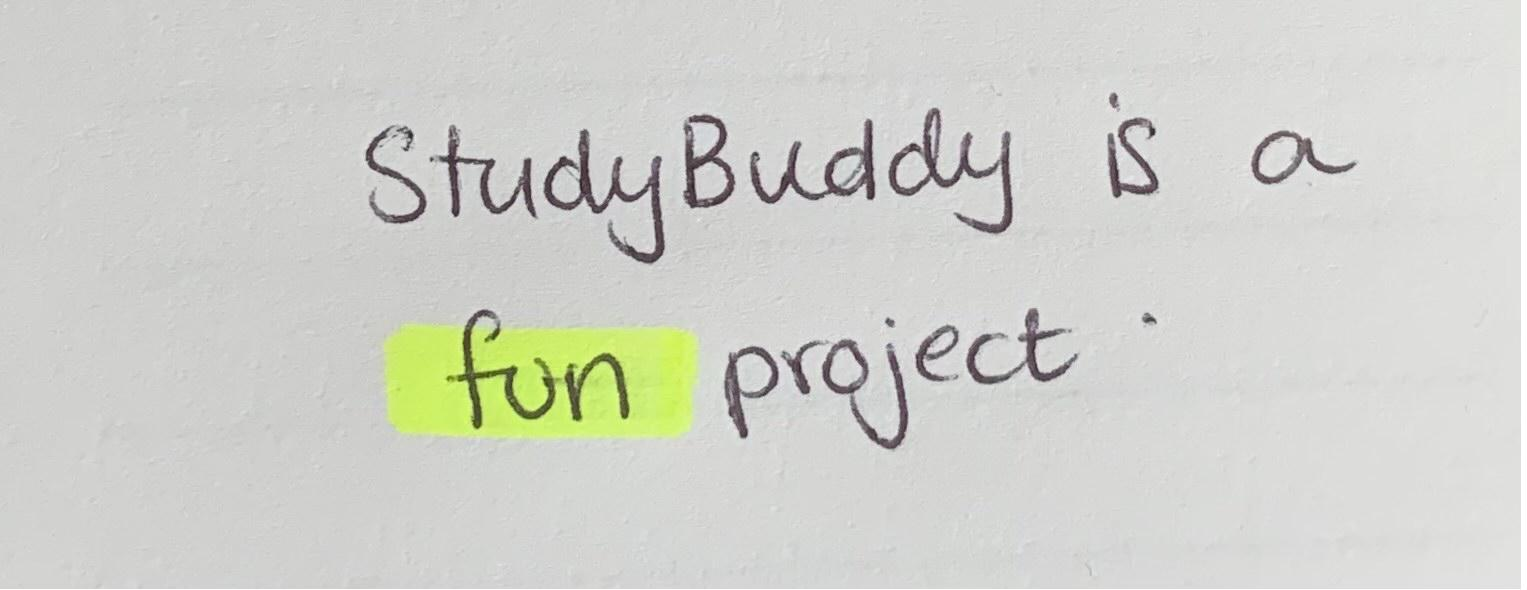
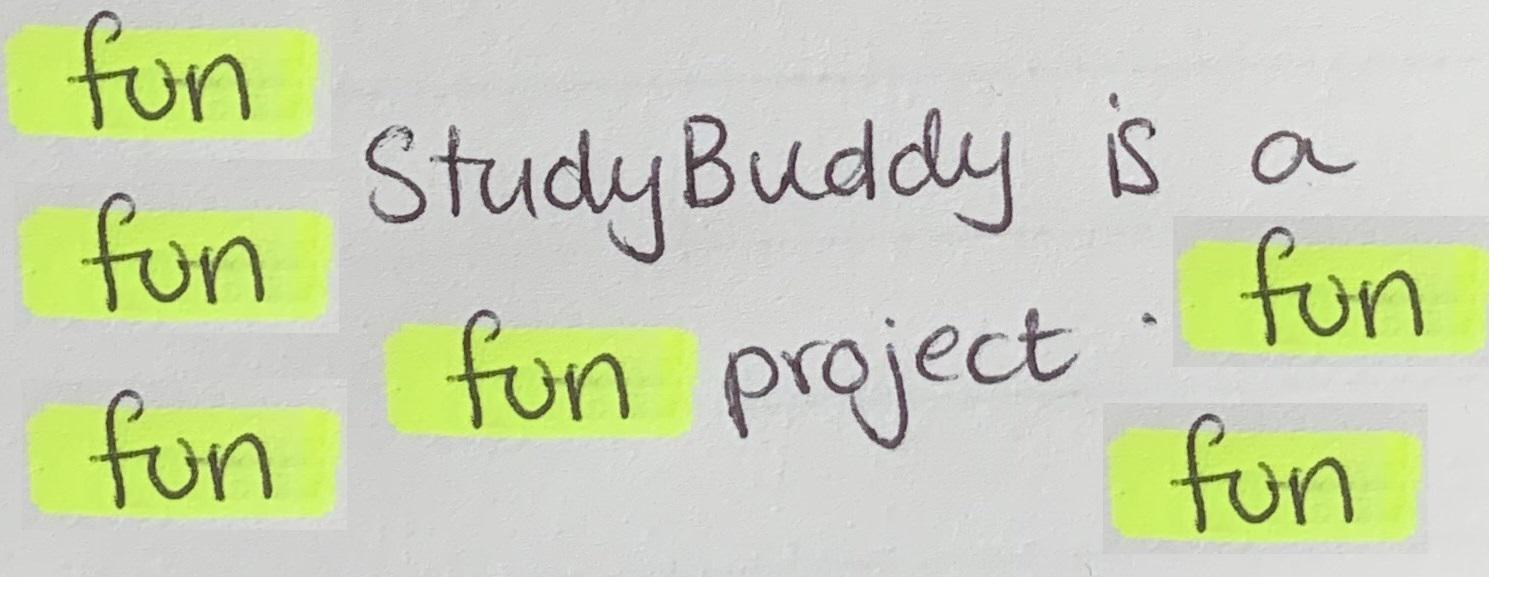
Multiple Highlights Update
Can now handle multiple highlights on the same image

diff --git a/api/Highlighted_Word_Finder.py b/api/Highlighted_Word_Finder.py
@@ -26,6 +26,39 @@ def detect_darker_color(possibleDarkerColor, lightColor, tolerancePercentage):
     else:
         return False
         
+def recursiveFindHighlightBlock(image, color, tolerance, x, y, xStep, yStep, topLeft, bottomRight, visitedMatrix):
+    if x < 0 or y < 0 or x >= image.width or y >= image.height or visitedMatrix[x][y]:
+        return
+    if not compareColors(image.getpixel((x,y)), color, tolerance):
+        visitedMatrix[x][y] = True
+        return
+
+    visitedMatrix[x][y] = True
+    
+    #print("Old: " + str(topLeft) + ", " + str(bottomRight))
+    changed = False
+    
+    if x < topLeft[0]:
+        topLeft[0] = x
+        changed = True
+    if y < topLeft[1]:
+        topLeft[1] = y
+        changed = True
+    if x > bottomRight[0]:
+        bottomRight[0] = x
+        changed = True
+    if y > bottomRight[1]:
+        bottomRight[1] = y
+        changed = True
+    
+    #if changed:
+    #    print("New: " + str(topLeft) + ", " + str(bottomRight))
+    
+    recursiveFindHighlightBlock(image, color, tolerance, x + xStep, y, xStep, yStep, topLeft, bottomRight, visitedMatrix)
+    recursiveFindHighlightBlock(image, color, tolerance, x - xStep, y, xStep, yStep, topLeft, bottomRight, visitedMatrix)
+    recursiveFindHighlightBlock(image, color, tolerance, x, y + yStep, xStep, yStep, topLeft, bottomRight, visitedMatrix)
+    recursiveFindHighlightBlock(image, color, tolerance, x, y - yStep, xStep, yStep, topLeft, bottomRight, visitedMatrix)
+        
 
 #Does a scan of an image with a step size depending on image size and uses Google Vision OCR on highlighted words
 #TODO: Adjust code to handle multiple highlighted words
@@ -34,9 +67,6 @@ def find_highlighted_words(path):
     image_width = selected_image.width
     image_height = selected_image.height
     colorList = []
-    
-    print(image_width)
-    print(image_height)
     
     colorScanTolerance = 100
     highlightColorTolerance = 50
@@ -92,6 +122,34 @@ def find_highlighted_words(path):
     print("Initial highlight coordinates: ")
     for i in coordinatesList:
         print(i)
+        
+    
+    #TODO: Separate multiple highlighted words 
+    
+    tempCoordinatesList = []
+    for color in coordinatesList:
+        #visitedMatrix = [[False] * image_width for _ in range(image_height)]
+        print("Color: " + str(color[0]))
+        visitedMatrix = [[False] * image_height for _ in range(image_width)]
+        for x in range(color[1], color[3], stepSizeX * 6):
+            for y in range(color[2], color[4], stepSizeY * 6):
+                topLeft = [color[3],color[4]]
+                bottomRight = [color[1],color[2]]
+                if not (visitedMatrix[x][y]):
+                    recursiveFindHighlightBlock(selected_image, color[0], highlightColorTolerance, x, y, stepSizeX * 6, stepSizeY * 6, topLeft, bottomRight, visitedMatrix)
+                if not ([color[0],topLeft[0],topLeft[1],bottomRight[0],bottomRight[1]] in tempCoordinatesList) and not (topLeft[0] == color[3] and topLeft[1] == color[4] and bottomRight[0] == color[1] and bottomRight[1] == color[2]) and not (topLeft[0] == bottomRight[0] or topLeft[1] == bottomRight[1]):
+                    #print("individualBlock is " + str(topLeft) + ", " + str(bottomRight))
+                    #print("fullBlock is (" + str(color[1]) + "," + str(color[2]) + ") , (" + str(color[3]) + "," + str(color[4]) + ")")
+                    tempCoordinatesList.append([color[0],topLeft[0],topLeft[1],bottomRight[0],bottomRight[1]])
+    
+    coordinatesList = tempCoordinatesList
+
+    
+    print("Separated highlight coordinates: ")
+    for i in coordinatesList:
+        print(i)
+
+    print("done")
     
     #Scans coordinate blocks to filter out unhighlighted text
     for color in coordinatesList:
@@ -108,12 +166,6 @@ def find_highlighted_words(path):
     print("Filtered highlight coordinates: ")
     for i in coordinatesList:
         print(i)
-        
-
-    #TODO: Separate multiple highlighted words
-
-
-
     
     
     #Checks for text sticking out of the highlight and adjusts highlight coordinates to account for it
@@ -140,6 +192,7 @@ def find_highlighted_words(path):
                     pixels[x,y] = selected_image.getpixel((x,y))
         imageCopy.save("./Images/Processing Images/" + str(imageCount) + ".jpg")
     
+    
     #Uses Google Vision OCR on each saved image
     imageCount = 0
     for color in coordinatesList:
@@ -158,7 +211,7 @@ def detect_document(path):
     image = vision.Image(content=content)
 
     response = client.document_text_detection(image=image)
-    
+    """
     if len(response.full_text_annotation.pages) == 1 and len(response.full_text_annotation.pages[0].blocks) == 1 and len(response.full_text_annotation.pages[0].blocks[0].paragraphs) == 1 and len(response.full_text_annotation.pages[0].blocks[0].paragraphs[0].words) == 1:
         for page in response.full_text_annotation.pages:
             for block in page.blocks:
@@ -178,8 +231,9 @@ def detect_document(path):
                         for symbol in word.symbols:
                             print('\tSymbol: {} (confidence: {})'.format(
                                 symbol.text, symbol.confidence))
-                            
     """
+                            
+    print(path)
     for page in response.full_text_annotation.pages:
         for block in page.blocks:
             print('\nBlock confidence: {}\n'.format(block.confidence))
@@ -198,12 +252,12 @@ def detect_document(path):
                     for symbol in word.symbols:
                         print('\tSymbol: {} (confidence: {})'.format(
                             symbol.text, symbol.confidence))
-    """
+
     if response.error.message:
         raise Exception(
             '{}\nFor more info on error messages, check: '
             'https://cloud.google.com/apis/design/errors'.format(
                 response.error.message))
 
-find_highlighted_words("Images/IMG_3198.jpg")
-#detect_document("Images/IMG_3200.jpg")
+find_highlighted_words("Images/MultipleHighlightsImage.jpg")
+#detect_document("Images/Processing Images/2.jpg")
